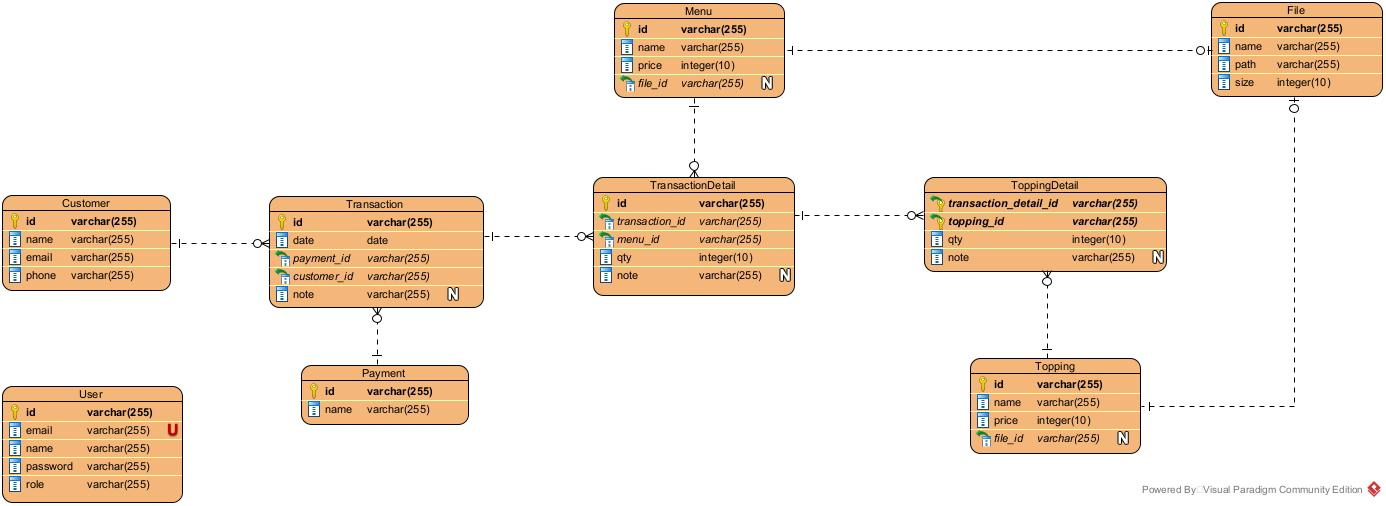
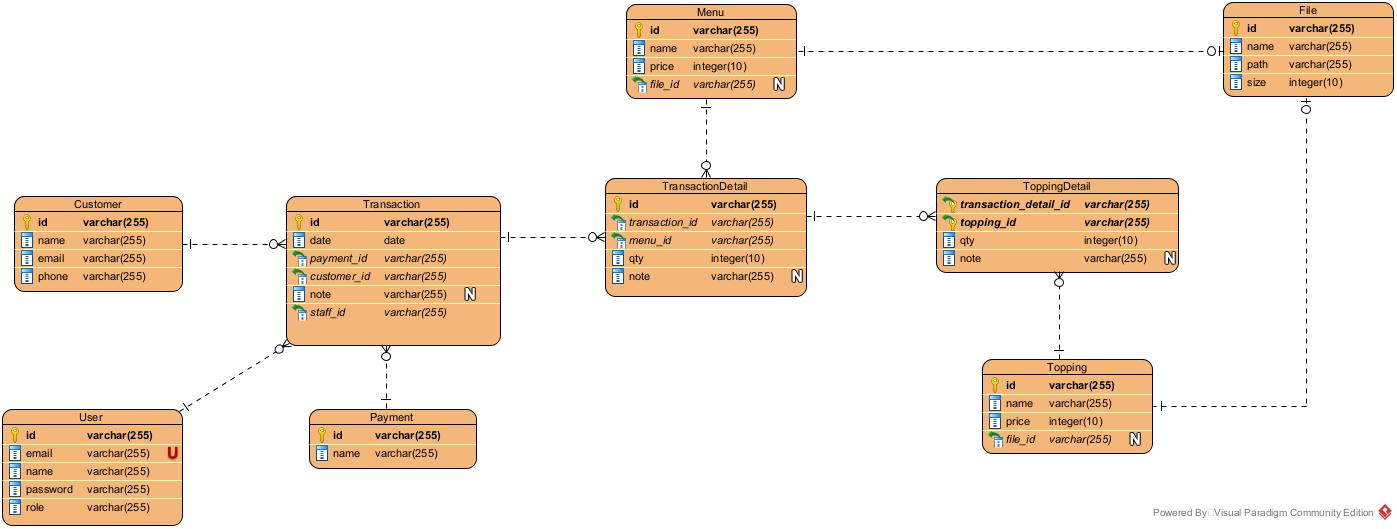
add user as staff to transaction

diff --git a/src/model/Transaction.ts b/src/model/Transaction.ts
@@ -1,6 +1,5 @@
 import { InsertTransactionDTO, UpdateTransactionDTO } from "../dto/transaction";
 import { client } from "../prisma/prisma";
-import { Customer } from "./Customer";
 import { Payment } from "./Payment";
 import { TransactionDetail } from "./TransactionDetail";
 
@@ -10,7 +9,14 @@ type Transaction = {
     payment_id: string,
     customer_id: string,
     note?: string | null,
-    customer?: Customer | null,
+    customer?: {
+        id: string,
+        name: string
+    } | null,
+    staff?: {
+        id: string,
+        name: string
+    } | null,
     payment?: Payment | null,
     transaction_details?: TransactionDetail[] | null
 };
@@ -18,7 +24,18 @@ type Transaction = {
 const getAllTransaction = async (): Promise<Transaction[]> => {
     const transactions: Transaction[] = await client.transaction.findMany({
         include: {
-            customer: true,
+            staff: {
+                select: {
+                    id: true,
+                    name: true
+                }
+            },
+            customer: {
+                select: {
+                    id: true,
+                    name: true
+                }
+            },
             payment: true,
             transaction_details: {
                 include: {
@@ -47,7 +64,18 @@ const getTransaction = async (id: string) => {
     const transaction: Transaction | null = await client.transaction.findFirst({
         where: { id: id },
         include: {
-            customer: true,
+            staff: {
+                select: {
+                    id: true,
+                    name: true
+                }
+            },
+            customer: {
+                select: {
+                    id: true,
+                    name: true
+                }
+            },
             payment: true,
             transaction_details: {
                 include: {
@@ -72,12 +100,13 @@ const getTransaction = async (id: string) => {
     return transaction;
 };
 
-const addTransaction = async ({ customerId, paymentId, note }: InsertTransactionDTO) => {
+const addTransaction = async ({ customerId, paymentId, note }: InsertTransactionDTO, staffId: string) => {
     const transaction: Transaction = await client.transaction.create({
         data: {
             customer_id: customerId,
             payment_id: paymentId,
             note: note,
+            staff_id: staffId,
         }
     });
     return transaction;

diff --git a/src/Middleware/AuthMiddleware.ts b/src/Middleware/AuthMiddleware.ts
@@ -1,9 +1,10 @@
 import { NextFunction, Request, Response } from "express";
 import { getToken, verifyAccessToken } from "../helper/AuthHelper";
 import { ErrorResponse } from "../types";
+import { getUser } from "../model/User";
 
 
-const AuthMiddleware = (req: Request, res: Response, next: NextFunction) => {
+const AuthMiddleware = async (req: Request, res: Response, next: NextFunction) => {
     try {
         if (!req.headers.authorization || req.headers.authorization == "")
             throw new Error("Token was not provided");
@@ -13,8 +14,9 @@ const AuthMiddleware = (req: Request, res: Response, next: NextFunction) => {
         const data = verifyAccessToken(jwt_token);
 
         if (data) {
-            next();
-            return;
+            const user = await getUser(data.id);
+            req.user = user;
+            return next();
         }
 
         throw new Error("Invalid Token");

diff --git a/src/handler/transaction/Add.ts b/src/handler/transaction/Add.ts
@@ -16,7 +16,11 @@ export const AddTransactionHandler = async (req: Request, res: Response) => {
     }
 
     handleTransaction(res, "Transaction Added", async () => {
-        const transaction = await addTransaction(body);
+
+        if(!req.user)
+            throw new Error("Must have staff to add transaction");
+
+        const transaction = await addTransaction(body, req.user.id);
 
         const details = await Promise.all(body.details.map(async (detail) => {
             const detaiData = await addDetailTransaction(transaction.id, detail);

diff --git a/@types/express/index.d.ts b/@types/express/index.d.ts
@@ -1,0 +1,9 @@
+import { User } from "../../src/model/User";
+
+declare global {
+    namespace Express {
+        interface Request {
+            user: User | null
+        }
+    }
+}

diff --git a/src/Routes/TransactionRoute.ts b/src/Routes/TransactionRoute.ts
@@ -19,5 +19,4 @@ router.delete("/", DeleteTransactionHandler);
 
 router.get("/:id", GetTransactionHandler);
 
-
 export default router;
